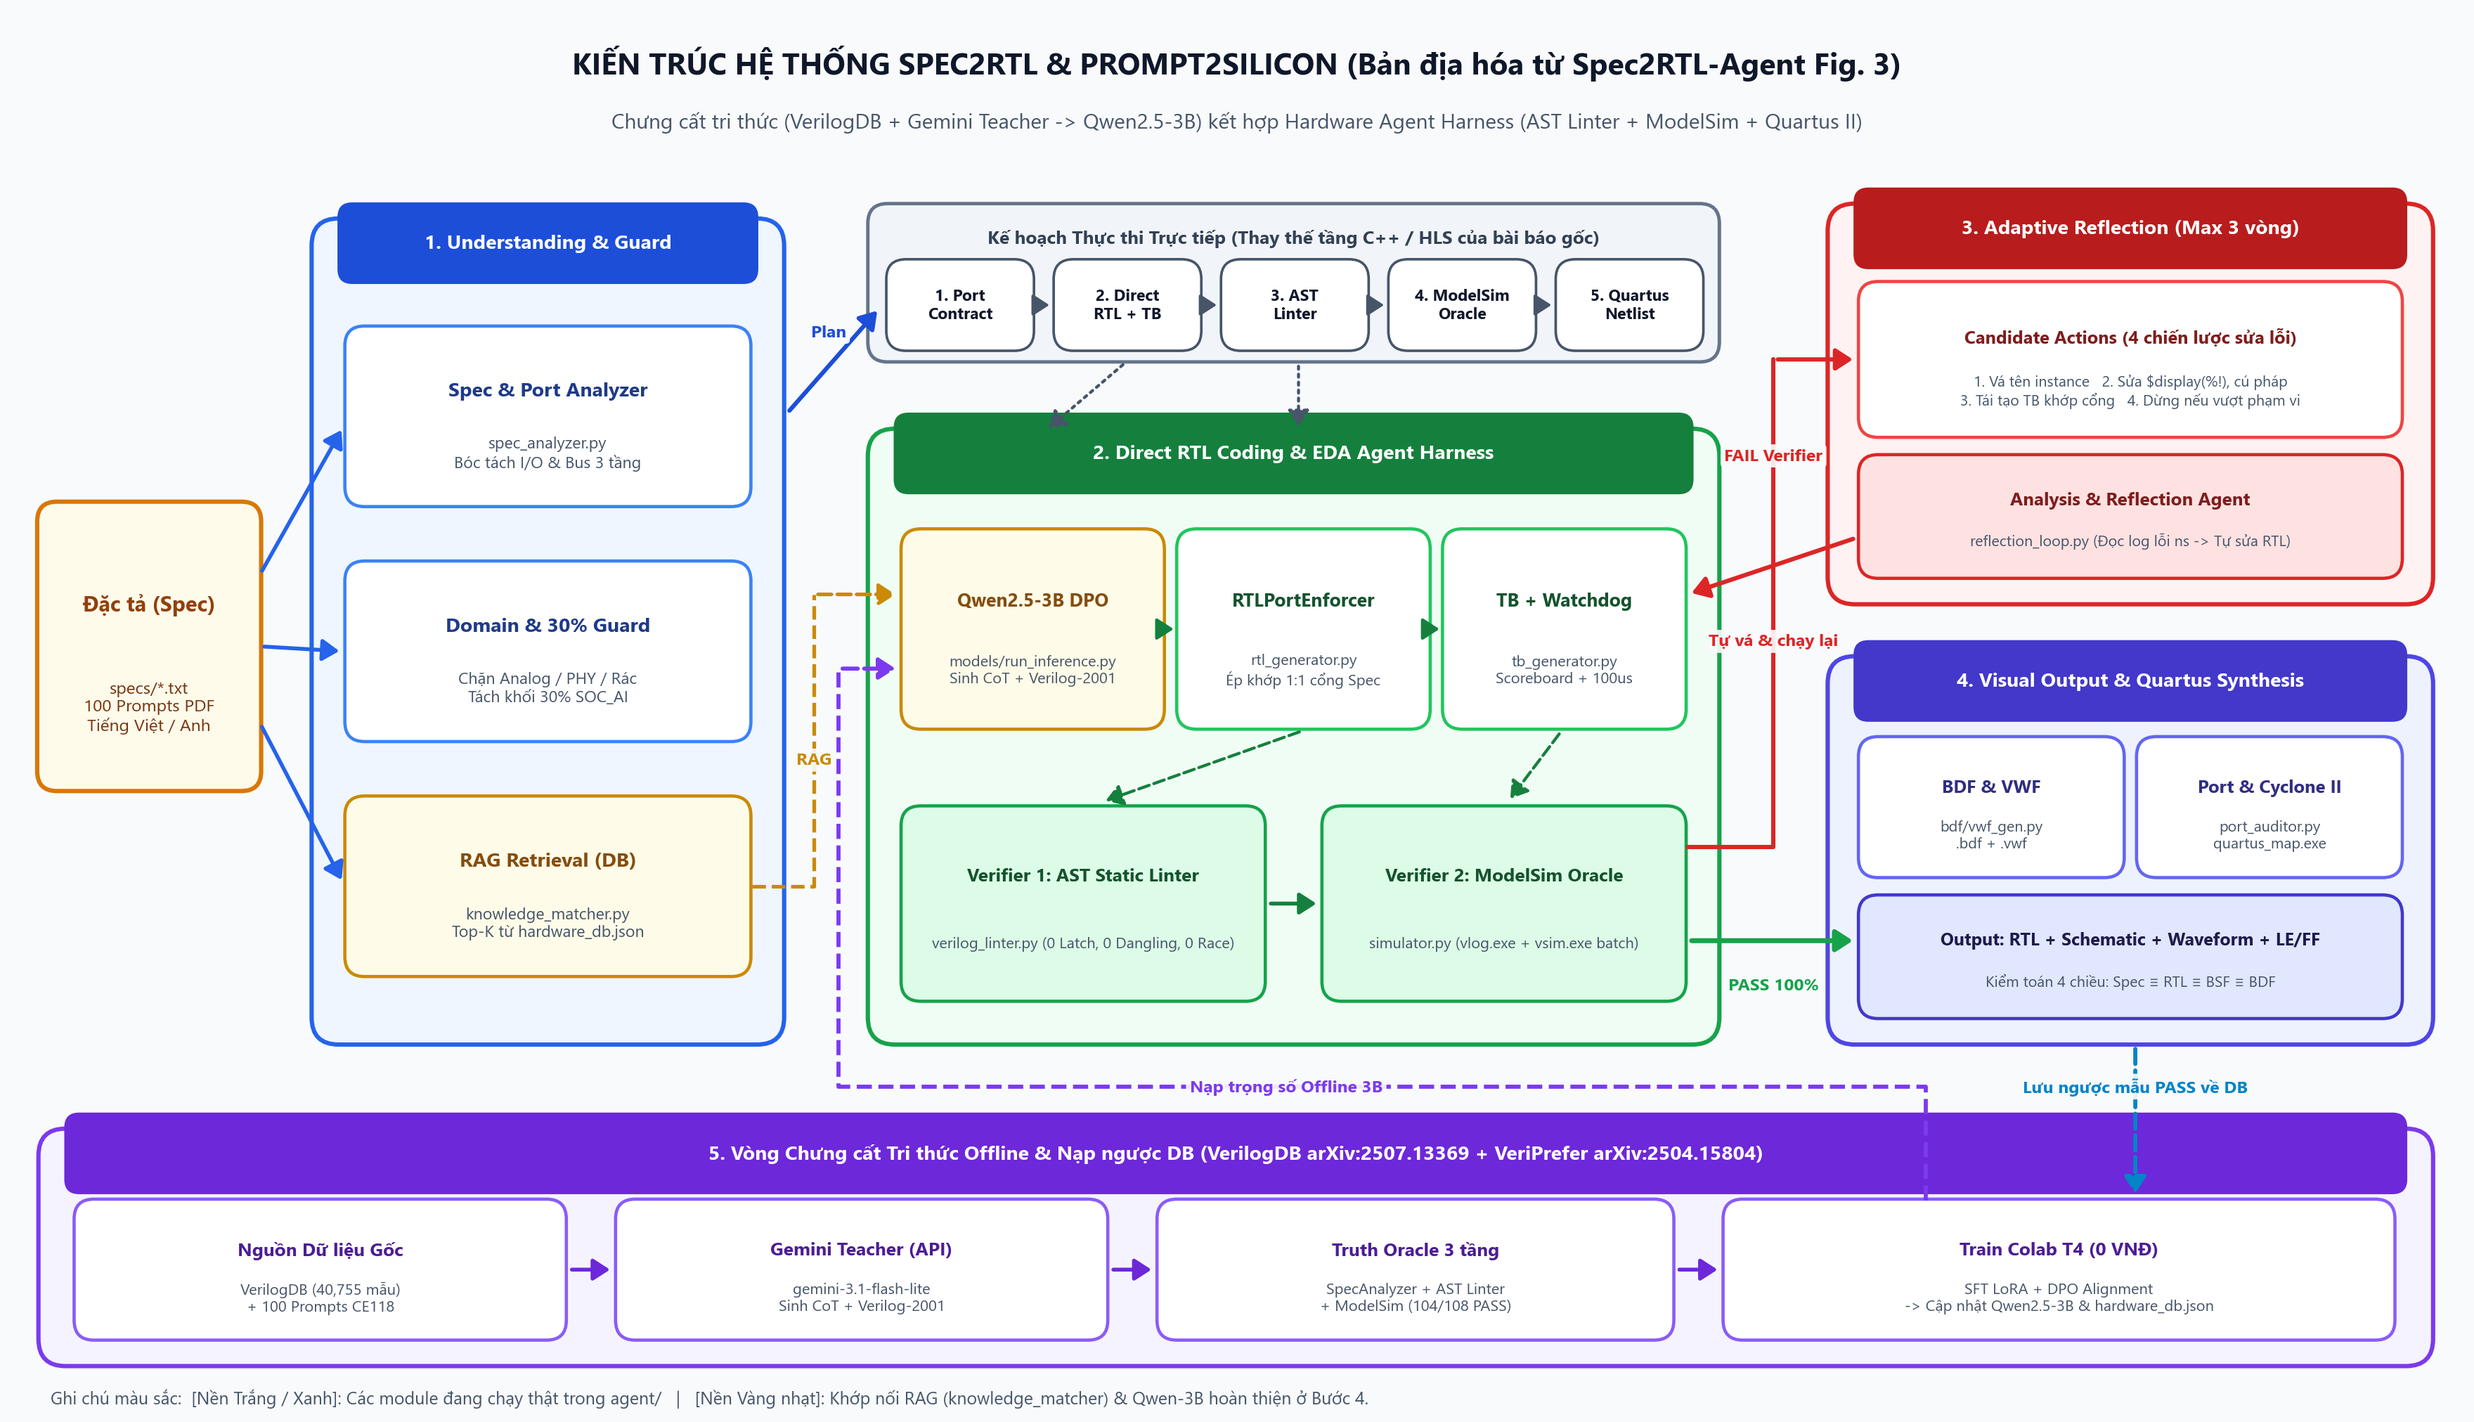
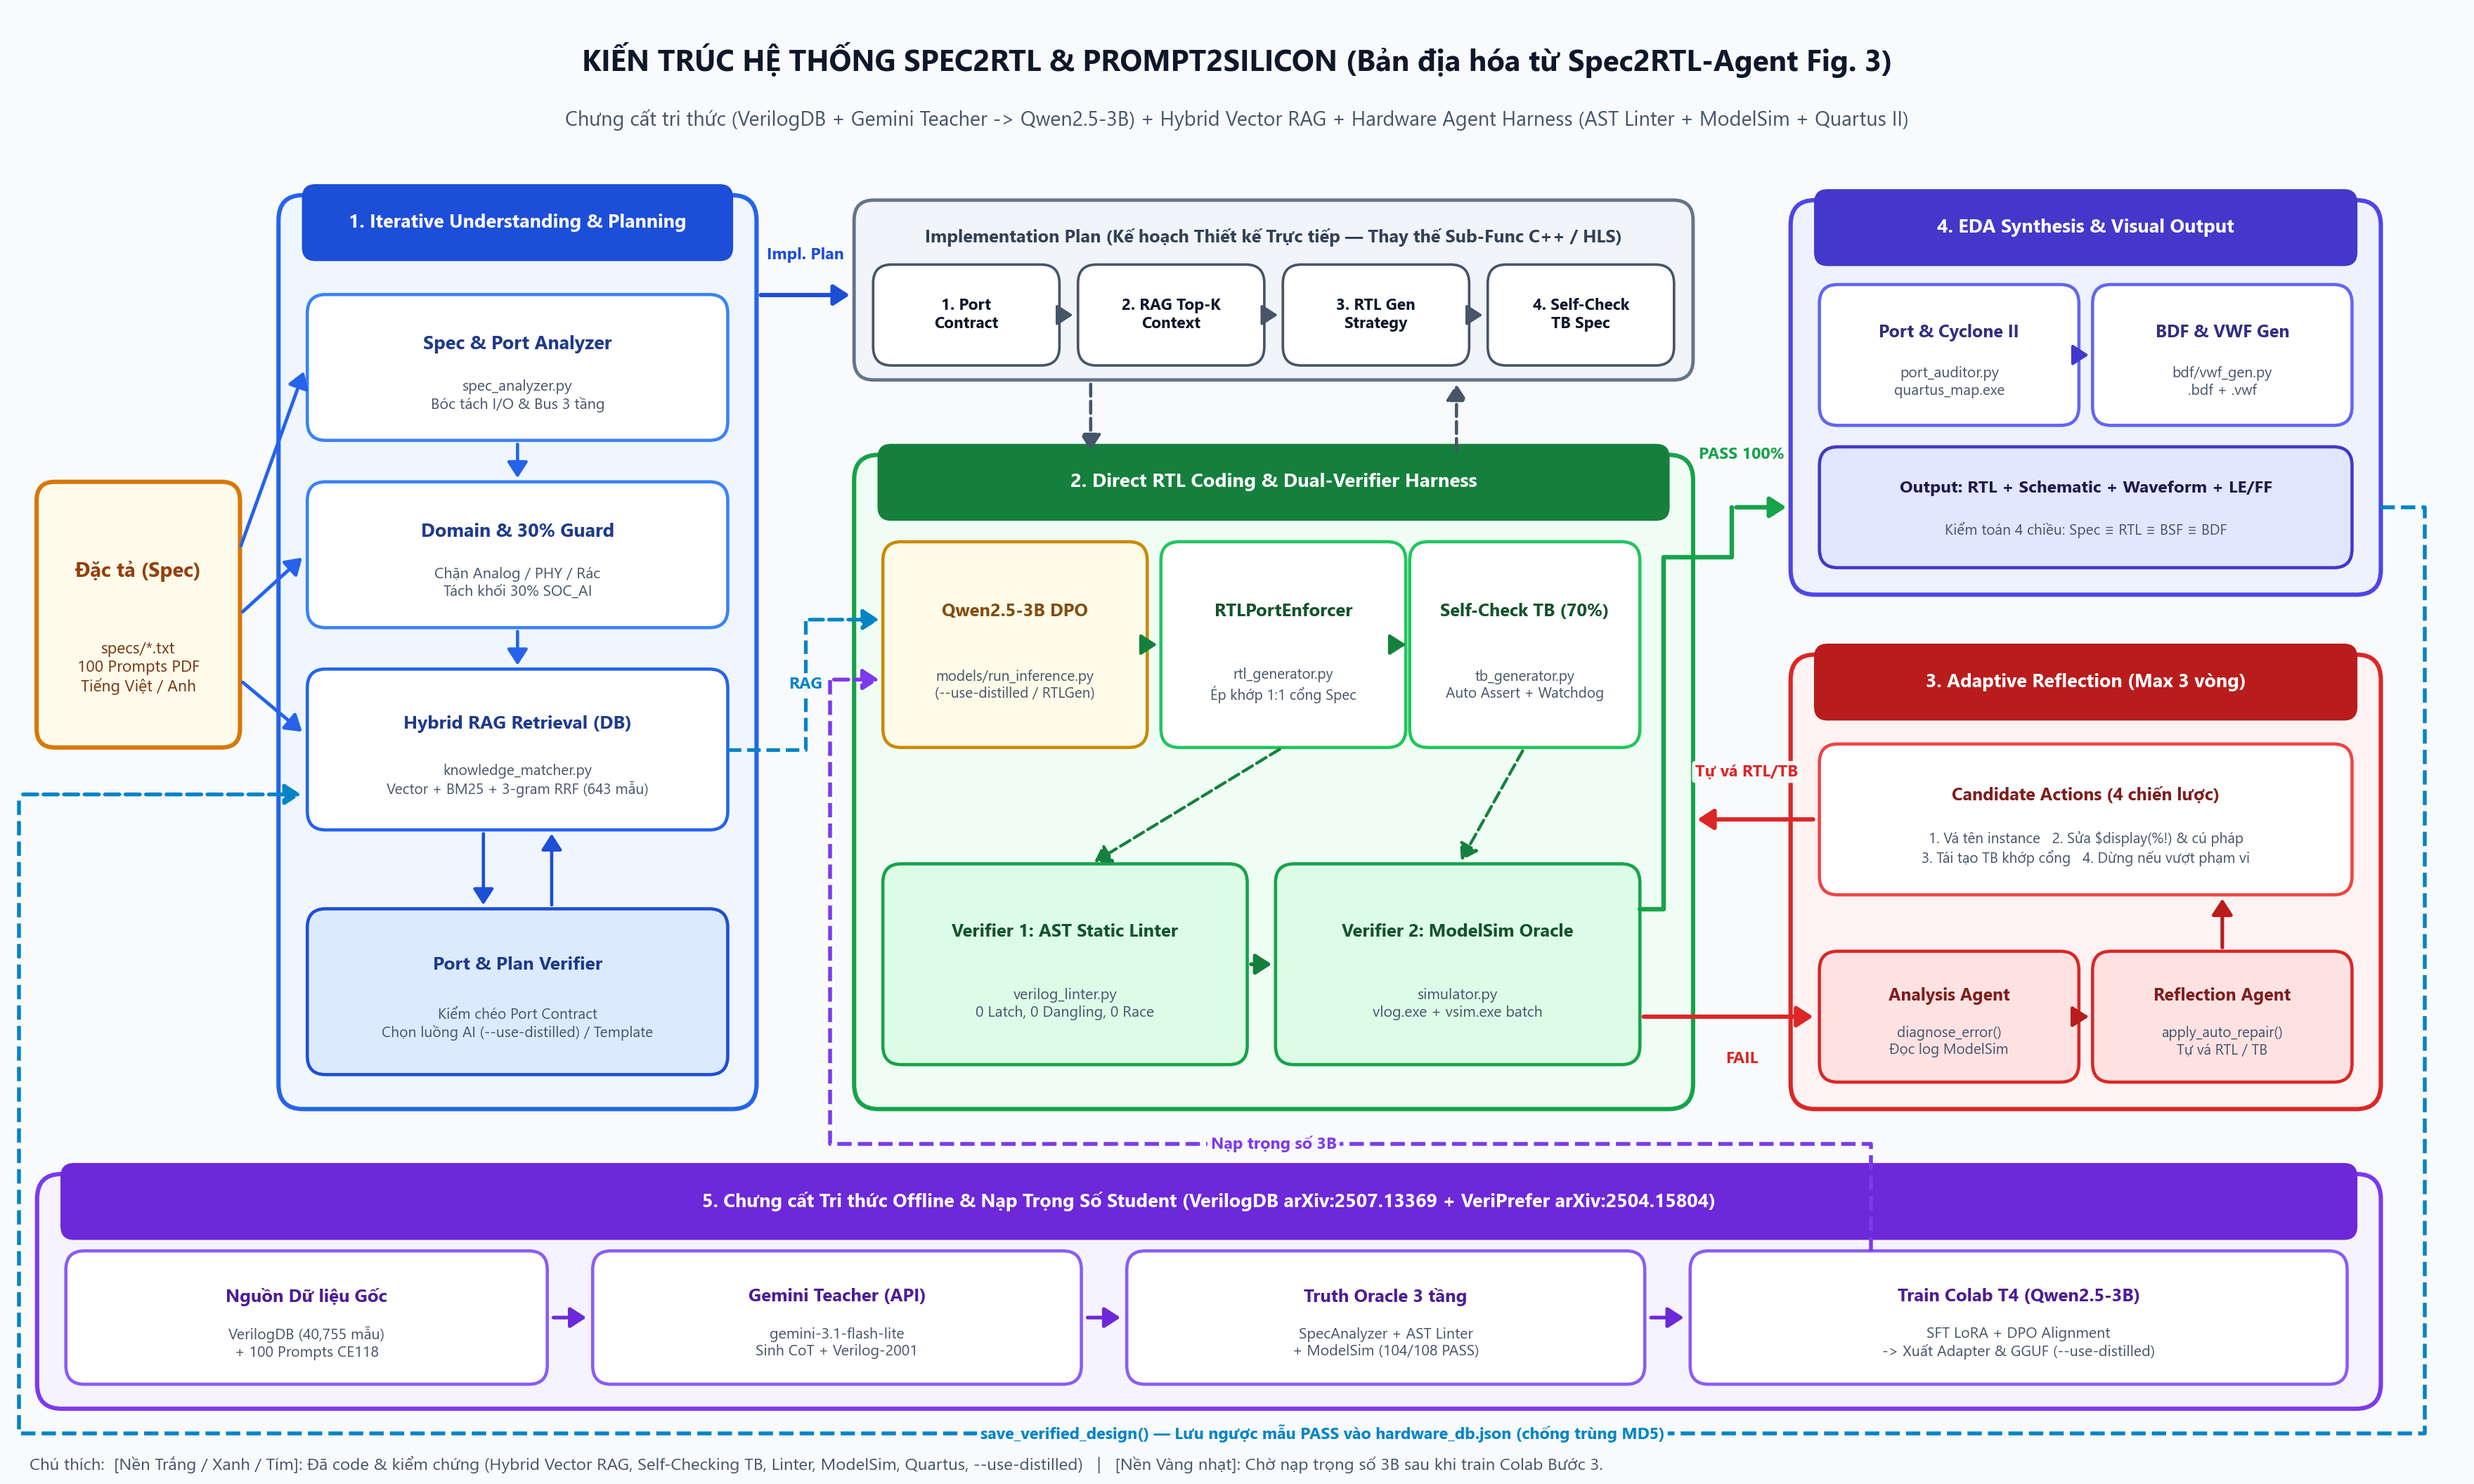
docs: redraw adapted Fig. 3 diagram matching paper structure & Hybrid Vector RAG

Changed region(s): [[0.0, 0.1246, 1.0, 0.9965], [0.2188, 0.0311, 0.7812, 0.0934]]

diff --git a/docs/Spec2RTL_Bao_Ve_Do_An_3.html b/docs/Spec2RTL_Bao_Ve_Do_An_3.html
@@ -897,34 +897,34 @@
 
         <!-- SLIDE 8: CURRENT INTEGRATED ARCHITECTURE -->
         <section class="slide" data-title="Kiến trúc hệ thống tích hợp hiện tại"
-            data-notes="Sau khi có trọng số chưng cất, nhóm hoàn thiện kiến trúc tổng thể được bản địa hóa từ Fig. 3 của bài báo Spec2RTL-Agent như trên sơ đồ. Ở lớp đầu vào và sinh mã, hệ thống kết hợp Domain Guard với bộ truy xuất Hybrid BM25 RAG trong knowledge_matcher.py để lấy mẫu tham khảo từ hardware_db.json, rồi truyền vào mô hình Qwen2.5-3B DPO qua cầu nối --use-distilled của run_spec2rtl.py (gọi models/run_inference.py với use_rag=True, vẫn có fallback an toàn về RTLGenerator). Ở lớp kiểm chứng EDA, mã Verilog tiếp tục đi qua RTLPortEnforcer, AST Linter, vòng tự sửa lỗi ModelSim và xuất hồ sơ Quartus II; đặc biệt các thiết kế đạt chuẩn sau tổng hợp Quartus được lưu ngược trở lại hardware_db.json để làm giàu kho tri thức RAG cho các lần chạy sau.">
+            data-notes="Sau khi có trọng số chưng cất, nhóm hoàn thiện kiến trúc tổng thể được bản địa hóa từ Fig. 3 của bài báo Spec2RTL-Agent như trên sơ đồ. Ở lớp đầu vào và kế hoạch, hệ thống chạy tuần tự 4 bước kiểm chéo gồm Spec &amp; Port Analyzer, Domain &amp; 30% Guard, Hybrid Vector RAG (Vector + BM25 + 3-gram RRF) và Port &amp; Plan Verifier để chốt Implementation Plan. Ở lớp sinh mã và kiểm chứng EDA, mã Verilog từ Qwen2.5-3B DPO (--use-distilled, fallback RTLGenerator) đi qua RTLPortEnforcer, Self-Checking TB (nhóm 70%), AST Linter, vòng tự sửa lỗi ModelSim và xuất hồ sơ Quartus II; đặc biệt các thiết kế đạt chuẩn được save_verified_design() lưu ngược trở lại hardware_db.json để làm giàu kho tri thức RAG.">
             <div class="slide-header">
                 <span class="slide-tag">03. Kiến trúc hệ thống hiện tại</span>
-                <span class="slide-section-label">Spec2RTL-Agent Fig. 3 Adapted • Hybrid BM25 RAG + --use-distilled</span>
+                <span class="slide-section-label">Spec2RTL-Agent Fig. 3 Adapted • Hybrid Vector RAG + --use-distilled</span>
             </div>
             <h2 class="slide-title">Kiến Trúc Tích Hợp: Bản Địa Hóa Từ Fig. 3 Spec2RTL-Agent</h2>
             <div class="slide-body">
                 <div class="grid-2-wide-right">
                     <div style="display:flex; flex-direction:column; gap:10px;">
                         <div class="card card-accent-indigo">
-                            <h3>1. Hybrid BM25 RAG &amp; AI Chưng Cất (<code>--use-distilled</code>)</h3>
+                            <h3>1. Iterative Understanding &amp; Hybrid Vector RAG</h3>
                             <ul class="clean">
-                                <li><strong>RAG (<code>knowledge_matcher.py</code>):</strong> Hybrid BM25 + 3-gram Jaccard lấy Top-K từ <code>hardware_db.json</code> &amp; Teacher CoT.</li>
-                                <li><strong>Suy luận (<code>models/run_inference.py</code>):</strong> Domain Guard &rarr; gắn ngữ cảnh <code>use_rag=True</code> cho <code>Qwen2.5-3B</code> DPO, fallback an toàn về <code>RTLGenerator</code>.</li>
+                                <li><strong>Understanding &amp; Verifier:</strong> 4 bước nối tiếp (<code>spec_analyzer.py</code> &rarr; Domain/30% Guard &rarr; RAG &harr; Port Verifier) chốt <code>Implementation Plan</code>.</li>
+                                <li><strong>Hybrid RAG (<code>knowledge_matcher.py</code>):</strong> Vector (fastembed / Gemini / LSA) + BM25 + 3-gram RRF trên 643 mẫu (DB + Teacher RAM).</li>
                             </ul>
                         </div>
                         <div class="card card-accent-cyan">
-                            <h3>2. Đường Ống EDA &amp; Lưu Ngược DB (<code>run_spec2rtl.py</code>)</h3>
+                            <h3>2. Direct Coding, Self-Check TB &amp; Lưu Ngược DB</h3>
                             <ul class="clean">
-                                <li><strong>Pha 1–2:</strong> <code>spec_analyzer.py</code> (3 tầng) + cầu nối <code>--use-distilled</code> + <code>RTLPortEnforcer.enforce()</code> + <code>tb_generator.py</code>.</li>
-                                <li><strong>Pha 3–4:</strong> <code>verilog_linter.py</code> (AST Linter) &rarr; <code>simulator.py</code> + <code>reflection_loop.py</code> (ModelSim max 3 vòng).</li>
-                                <li><strong>Pha 5 &amp; Vòng nạp DB:</strong> Xuất Quartus II (<code>.bdf</code>, <code>.vwf</code>, <code>port_auditor</code>, <code>synthesis_profiler</code>) &amp; gọi <code>save_verified_design()</code> lưu ngược mẫu pass vào <code>hardware_db.json</code>.</li>
+                                <li><strong>Sinh mã &amp; TB 70%:</strong> Cầu nối <code>--use-distilled</code> (<code>run_inference.py</code> + <code>use_rag=True</code>) &rarr; <code>RTLPortEnforcer</code> &rarr; <code>tb_generator.py</code> Self-Check.</li>
+                                <li><strong>Dual Verifier &amp; Reflection:</strong> <code>verilog_linter.py</code> (AST) &rarr; ModelSim Oracle &harr; <code>reflection_loop.py</code> (max 3 vòng).</li>
+                                <li><strong>Quartus &amp; Lưu ngược DB:</strong> Xuất <code>.bdf</code>, <code>.vwf</code>, <code>LE/FF</code> và gọi <code>save_verified_design()</code> nạp ngược mẫu pass vào <code>hardware_db.json</code>.</li>
                             </ul>
                         </div>
                     </div>
                     <div class="img-frame" style="height:100%;">
                         <img src="images/spec2rtl_fig3_adapted.png" alt="Kiến trúc Spec2RTL bản địa hóa từ Fig. 3 Spec2RTL-Agent">
-                        <span class="img-caption">Bản địa hóa từ Fig. 3 (Spec2RTL-Agent) — Hybrid BM25 RAG + --use-distilled + Lưu ngược hardware_db.json</span>
+                        <span class="img-caption">Bản địa hóa từ Fig. 3 (Spec2RTL-Agent) — Iterative Understanding &rarr; Hybrid Vector RAG &rarr; Dual Verifier &rarr; Lưu ngược DB</span>
                     </div>
                 </div>
             </div>

diff --git a/docs/Kich_Ban_Slide_Bao_Cao.md b/docs/Kich_Ban_Slide_Bao_Cao.md
@@ -179,18 +179,18 @@ flowchart LR
        * Chạy `SpecAnalyzer.check_unsupported_domain()` $\rightarrow$ truy xuất **Hybrid BM25 + 3-gram Jaccard RAG** (`use_rag=True`, `KnowledgeMatcher.format_rag_context()`) lấy Top-K mẫu từ `knowledge_base/hardware_db.json` và `training/dataset_teacher_distilled.json`.
        * Nạp `Qwen2.5-Coder-3B-Instruct` + adapter DPO `models/qwen2.5_3b_verilog_dpo/` (GGUF/PyTorch), tự động fallback an toàn về `RTLGenerator.generate_from_spec()` nếu máy chưa có trọng số/GPU.
     2. **Nhánh Điều phối EDA Toàn trình (`agent/run_spec2rtl.py` — trong thư mục `agent/` gồm 13 module lõi/tiện ích & 2 script kiểm thử):**
-       * **Pha 1 (`spec_analyzer.py`, `knowledge_matcher.py`):** Domain Guard + bóc tách cổng I/O 3 tầng + truy xuất RAG Hybrid BM25.
-       * **Pha 2 (`run_spec2rtl.py --use-distilled`, `rtl_generator.py`, `tb_generator.py`):** Cầu nối `--use-distilled` gọi AI chưng cất (có fallback về `RTLGenerator`), ép khớp cổng bằng `RTLPortEnforcer.enforce()`, sinh Self-Checking Testbench.
-       * **Pha 3 (`verilog_linter.py`):** Kiểm tra tĩnh AST Linter trước khi mô phỏng.
-       * **Pha 4 (`simulator.py`, `reflection_loop.py`, `eda_finder.py`):** Chạy ModelSim/Icarus + tự vá lỗi vòng lặp khép kín (`max_retries=3`).
-       * **Pha 5 (`bdf_generator.py`, `vwf_generator.py`, `port_auditor.py`, `synthesis_profiler.py` + `save_verified_design()`):** Xuất Project Quartus II, Schematic BDF, Waveform VWF, kiểm toán 4 chiều, đo tài nguyên Cyclone II và **lưu ngược mẫu pass Linter + ModelSim + Quartus vào `knowledge_base/hardware_db.json`** (chống trùng MD5).
+       * **Pha 1 (`spec_analyzer.py`, `knowledge_matcher.py`):** 4 bước kiểm chéo `Iterative Understanding & Planning` (Spec & Port Analyzer $\rightarrow$ Domain/30% Guard $\rightarrow$ Hybrid Vector RAG (`Vector + BM25 + 3-gram RRF` trên 643 mẫu) $\leftrightarrow$ Port & Plan Verifier).
+       * **Pha 2 (`run_spec2rtl.py --use-distilled`, `rtl_generator.py`, `tb_generator.py`):** Cầu nối `--use-distilled` gọi AI chưng cất (có fallback về `RTLGenerator`), ép khớp cổng bằng `RTLPortEnforcer.enforce()`, sinh Self-Checking Testbench (nhóm 70%).
+       * **Pha 3 (`verilog_linter.py`):** Verifier 1 — Kiểm tra tĩnh AST Linter trước khi mô phỏng.
+       * **Pha 4 (`simulator.py`, `reflection_loop.py`, `eda_finder.py`):** Verifier 2 — ModelSim Oracle + Adaptive Reflection (`Analysis -> Reflection -> Candidate Actions`, max 3 vòng).
+       * **Pha 5 (`bdf_generator.py`, `vwf_generator.py`, `port_auditor.py`, `synthesis_profiler.py` + `save_verified_design()`):** Xuất Project Quartus II, Schematic BDF, Waveform VWF, kiểm toán 4 chiều, đo tài nguyên Cyclone II và **lưu ngược mẫu pass vào `knowledge_base/hardware_db.json`** (chống trùng MD5).
 * **Hình ảnh / Sơ đồ gợi ý:**
   - Sơ đồ kiến trúc chính thức tại Slide 8 (**bản địa hóa từ Fig. 3 của bài báo *Spec2RTL-Agent***): `![Sơ đồ kiến trúc hệ thống Spec2RTL bản địa hóa từ Fig. 3 Spec2RTL-Agent](images/spec2rtl_fig3_adapted.png)` *(đường dẫn repo: `docs/images/spec2rtl_fig3_adapted.png`)*.
-  - *Ghi chú hoàn thiện:* Đã tích hợp sẵn **RAG Hybrid BM25** (`agent/knowledge_matcher.py`), cầu nối `--use-distilled` (`agent/run_spec2rtl.py` + `use_rag` trong `models/run_inference.py`) và **vòng lưu ngược mẫu pass Quartus vào `knowledge_base/hardware_db.json`**.
+  - *Ghi chú hoàn thiện:* Đã đồng bộ sơ đồ theo đúng cấu trúc **Fig. 3** (Understanding 4 bước + Verifier $\rightarrow$ Implementation Plan $\rightarrow$ Direct Coding & Dual Verifier $\rightarrow$ EDA Output + Adaptive Reflection + Vòng nạp ngược `save_verified_design()`).
 * **Lời thoại thuyết trình (~45s):**
   > *"Sau khi có trọng số chưng cất, nhóm hoàn thiện kiến trúc tổng thể được bản địa hóa từ Fig. 3 của bài báo Spec2RTL-Agent như trên sơ đồ.*  
-  > *Ở lớp đầu vào và sinh mã, hệ thống kết hợp Domain Guard với bộ truy xuất **Hybrid BM25 RAG** trong `knowledge_matcher.py` để lấy mẫu tham khảo từ `hardware_db.json`, rồi truyền vào mô hình Qwen2.5-3B DPO qua cầu nối `--use-distilled` của `run_spec2rtl.py` (gọi `models/run_inference.py` với `use_rag=True`, vẫn có fallback an toàn về `RTLGenerator`).*  
-  > *Ở lớp kiểm chứng EDA, mã Verilog tiếp tục đi qua `RTLPortEnforcer`, AST Linter, vòng tự sửa lỗi ModelSim và xuất hồ sơ Quartus II; đặc biệt các thiết kế đạt chuẩn sau tổng hợp Quartus được lưu ngược trở lại `hardware_db.json` để làm giàu kho tri thức RAG cho các lần chạy sau."*
+  > *Ở lớp đầu vào và kế hoạch, hệ thống chạy tuần tự 4 bước kiểm chéo gồm `Spec & Port Analyzer`, `Domain & 30% Guard`, bộ truy xuất **Hybrid Vector RAG** trong `knowledge_matcher.py` và `Port & Plan Verifier` để chốt `Implementation Plan`.*  
+  > *Ở lớp sinh mã và kiểm chứng EDA, mã Verilog từ `Qwen2.5-3B DPO` qua cầu nối `--use-distilled` (có fallback về `RTLGenerator`) tiếp tục qua `RTLPortEnforcer`, `Self-Checking TB`, `AST Linter`, vòng tự sửa lỗi `ModelSim` và xuất hồ sơ `Quartus II`; đặc biệt các thiết kế đạt chuẩn được `save_verified_design()` lưu ngược trở lại `hardware_db.json` để làm giàu kho tri thức RAG cho các lần chạy sau."*
 
 ---
 
